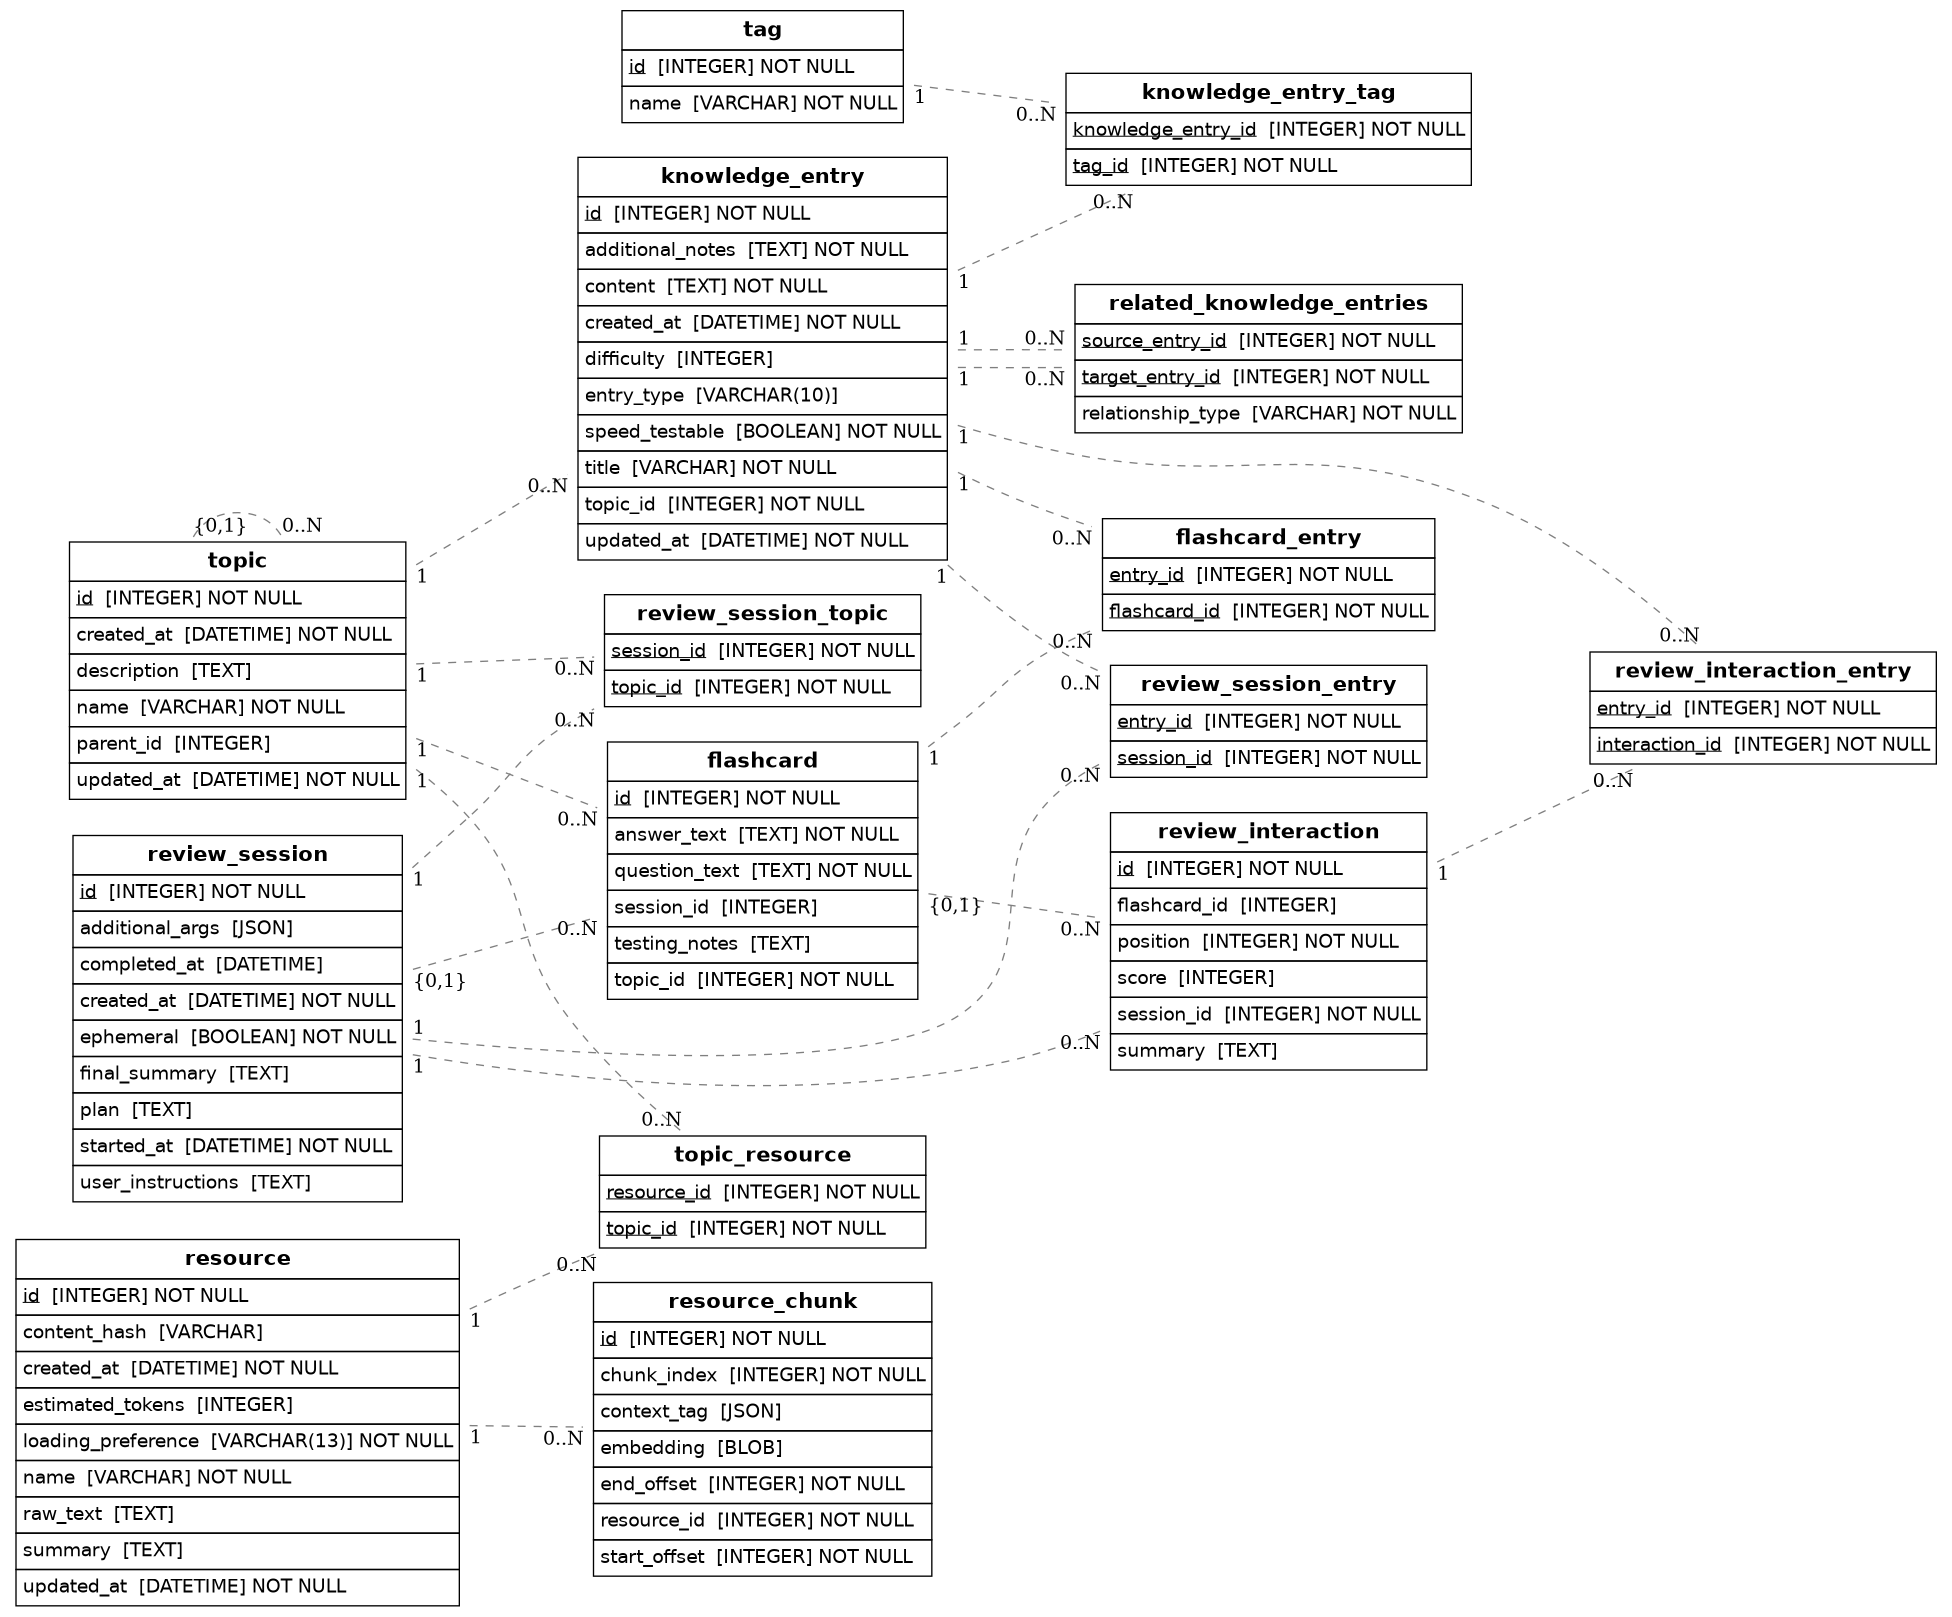
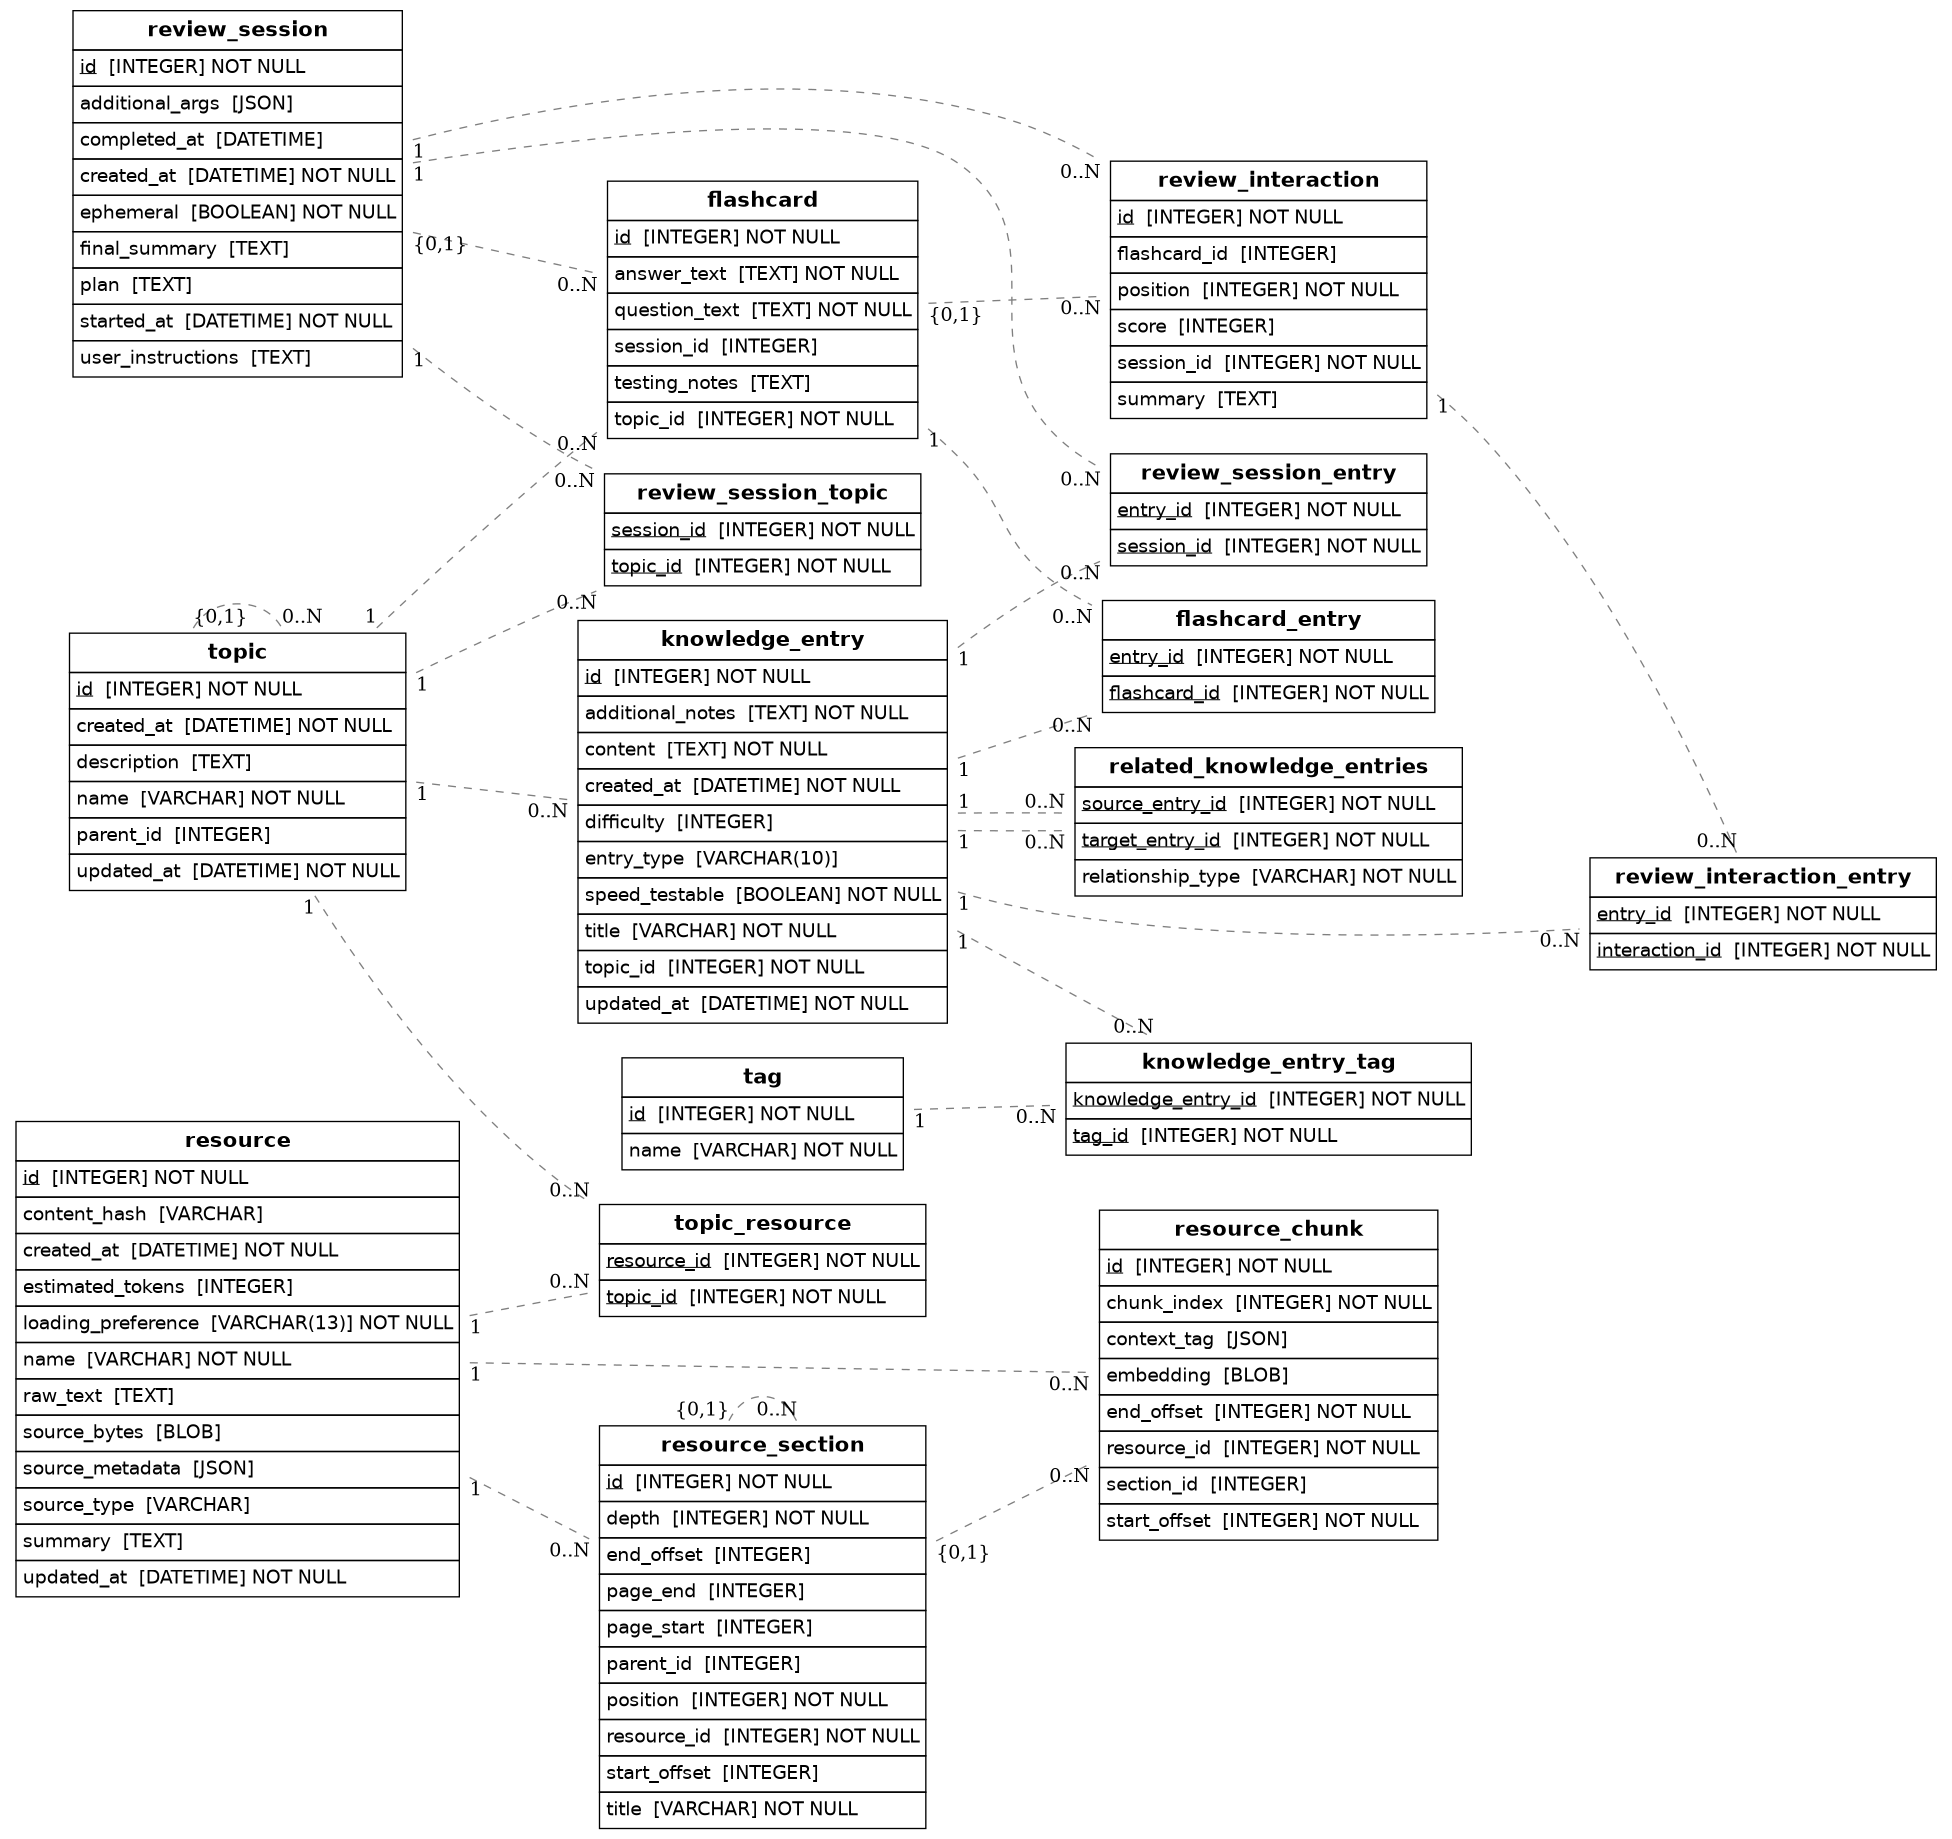
Add ResourceSection model, source storage columns, and migration
New ResourceSection table for hierarchical document sections with
parent/child relationships, page ranges, and character offsets.
Resource gains source_type, source_bytes, source_metadata columns.
ResourceChunk gains optional section_id foreign key.

diff --git a/rhizome/db/alembic/versions/7312cc519589_add_resource_sections_and_source_storage.py b/rhizome/db/alembic/versions/7312cc519589_add_resource_sections_and_source_storage.py
@@ -1,0 +1,75 @@
+"""add resource sections and source storage
+
+Revision ID: 7312cc519589
+Revises: fa2217307327
+Create Date: 2026-04-01 21:38:51.217424
+
+"""
+from typing import Sequence, Union
+
+from alembic import op
+import sqlalchemy as sa
+
+
+# revision identifiers, used by Alembic.
+revision: str = '7312cc519589'
+down_revision: Union[str, Sequence[str], None] = 'fa2217307327'
+branch_labels: Union[str, Sequence[str], None] = None
+depends_on: Union[str, Sequence[str], None] = None
+
+
+def upgrade() -> None:
+    """Upgrade schema."""
+    # ### commands auto generated by Alembic - please adjust! ###
+    op.create_table('resource_section',
+    sa.Column('id', sa.Integer(), autoincrement=True, nullable=False),
+    sa.Column('resource_id', sa.Integer(), nullable=False),
+    sa.Column('parent_id', sa.Integer(), nullable=True),
+    sa.Column('title', sa.String(), nullable=False),
+    sa.Column('depth', sa.Integer(), nullable=False),
+    sa.Column('position', sa.Integer(), nullable=False),
+    sa.Column('page_start', sa.Integer(), nullable=True),
+    sa.Column('page_end', sa.Integer(), nullable=True),
+    sa.Column('start_offset', sa.Integer(), nullable=True),
+    sa.Column('end_offset', sa.Integer(), nullable=True),
+    sa.ForeignKeyConstraint(['parent_id'], ['resource_section.id'], ondelete='CASCADE'),
+    sa.ForeignKeyConstraint(['resource_id'], ['resource.id'], ondelete='CASCADE'),
+    sa.PrimaryKeyConstraint('id'),
+    sa.UniqueConstraint('resource_id', 'position')
+    )
+    with op.batch_alter_table('resource_section', schema=None) as batch_op:
+        batch_op.create_index(batch_op.f('ix_resource_section_parent_id'), ['parent_id'], unique=False)
+        batch_op.create_index(batch_op.f('ix_resource_section_resource_id'), ['resource_id'], unique=False)
+
+    with op.batch_alter_table('resource', schema=None) as batch_op:
+        batch_op.add_column(sa.Column('source_type', sa.String(), nullable=True))
+        batch_op.add_column(sa.Column('source_bytes', sa.LargeBinary(), nullable=True))
+        batch_op.add_column(sa.Column('source_metadata', sa.JSON(), nullable=True))
+
+    with op.batch_alter_table('resource_chunk', schema=None) as batch_op:
+        batch_op.add_column(sa.Column('section_id', sa.Integer(), nullable=True))
+        batch_op.create_index(batch_op.f('ix_resource_chunk_section_id'), ['section_id'], unique=False)
+        batch_op.create_foreign_key('fk_resource_chunk_section_id', 'resource_section', ['section_id'], ['id'], ondelete='SET NULL')
+
+    # ### end Alembic commands ###
+
+
+def downgrade() -> None:
+    """Downgrade schema."""
+    # ### commands auto generated by Alembic - please adjust! ###
+    with op.batch_alter_table('resource_chunk', schema=None) as batch_op:
+        batch_op.drop_constraint('fk_resource_chunk_section_id', type_='foreignkey')
+        batch_op.drop_index(batch_op.f('ix_resource_chunk_section_id'))
+        batch_op.drop_column('section_id')
+
+    with op.batch_alter_table('resource', schema=None) as batch_op:
+        batch_op.drop_column('source_metadata')
+        batch_op.drop_column('source_bytes')
+        batch_op.drop_column('source_type')
+
+    with op.batch_alter_table('resource_section', schema=None) as batch_op:
+        batch_op.drop_index(batch_op.f('ix_resource_section_resource_id'))
+        batch_op.drop_index(batch_op.f('ix_resource_section_parent_id'))
+
+    op.drop_table('resource_section')
+    # ### end Alembic commands ###

diff --git a/rhizome/db/models.py b/rhizome/db/models.py
@@ -308,6 +308,9 @@ class Resource(Base):
     summary: Mapped[str | None] = mapped_column(Text, nullable=True)
     estimated_tokens: Mapped[int | None] = mapped_column(Integer, nullable=True)
     raw_text: Mapped[str | None] = mapped_column(Text, nullable=True)
+    source_type: Mapped[str | None] = mapped_column(String, nullable=True)
+    source_bytes: Mapped[bytes | None] = mapped_column(LargeBinary, nullable=True)
+    source_metadata: Mapped[dict | None] = mapped_column(JSON, nullable=True)
     loading_preference: Mapped[LoadingPreference] = mapped_column(
         Enum(LoadingPreference), nullable=False, server_default="auto"
     )
@@ -317,6 +320,9 @@ class Resource(Base):
     )
 
     chunks: Mapped[list["ResourceChunk"]] = relationship(
+        back_populates="resource", cascade="all, delete-orphan"
+    )
+    sections: Mapped[list["ResourceSection"]] = relationship(
         back_populates="resource", cascade="all, delete-orphan"
     )
 
@@ -345,6 +351,9 @@ class ResourceChunk(Base):
     resource_id: Mapped[int] = mapped_column(
         ForeignKey("resource.id", ondelete="CASCADE"), nullable=False, index=True
     )
+    section_id: Mapped[int | None] = mapped_column(
+        ForeignKey("resource_section.id", ondelete="SET NULL"), nullable=True, index=True
+    )
     chunk_index: Mapped[int] = mapped_column(Integer, nullable=False)
     start_offset: Mapped[int] = mapped_column(Integer, nullable=False)
     end_offset: Mapped[int] = mapped_column(Integer, nullable=False)
@@ -352,6 +361,37 @@ class ResourceChunk(Base):
     embedding: Mapped[bytes | None] = mapped_column(LargeBinary, nullable=True)
 
     resource: Mapped["Resource"] = relationship(back_populates="chunks")
+    section: Mapped["ResourceSection | None"] = relationship(back_populates="chunks")
 
     def __repr__(self) -> str:
         return f"<ResourceChunk id={self.id} resource={self.resource_id} index={self.chunk_index}>"
+
+
+class ResourceSection(Base):
+    __tablename__ = "resource_section"
+    __table_args__ = (UniqueConstraint("resource_id", "position"),)
+
+    id: Mapped[int] = mapped_column(primary_key=True, autoincrement=True)
+    resource_id: Mapped[int] = mapped_column(
+        ForeignKey("resource.id", ondelete="CASCADE"), nullable=False, index=True
+    )
+    parent_id: Mapped[int | None] = mapped_column(
+        ForeignKey("resource_section.id", ondelete="CASCADE"), nullable=True, index=True
+    )
+    title: Mapped[str] = mapped_column(String, nullable=False)
+    depth: Mapped[int] = mapped_column(Integer, nullable=False)
+    position: Mapped[int] = mapped_column(Integer, nullable=False)
+    page_start: Mapped[int | None] = mapped_column(Integer, nullable=True)
+    page_end: Mapped[int | None] = mapped_column(Integer, nullable=True)
+    start_offset: Mapped[int | None] = mapped_column(Integer, nullable=True)
+    end_offset: Mapped[int | None] = mapped_column(Integer, nullable=True)
+
+    resource: Mapped["Resource"] = relationship(back_populates="sections")
+    parent: Mapped["ResourceSection | None"] = relationship(
+        back_populates="children", remote_side="ResourceSection.id"
+    )
+    children: Mapped[list["ResourceSection"]] = relationship(back_populates="parent")
+    chunks: Mapped[list["ResourceChunk"]] = relationship(back_populates="section")
+
+    def __repr__(self) -> str:
+        return f"<ResourceSection id={self.id} resource={self.resource_id} title={self.title!r}>"
